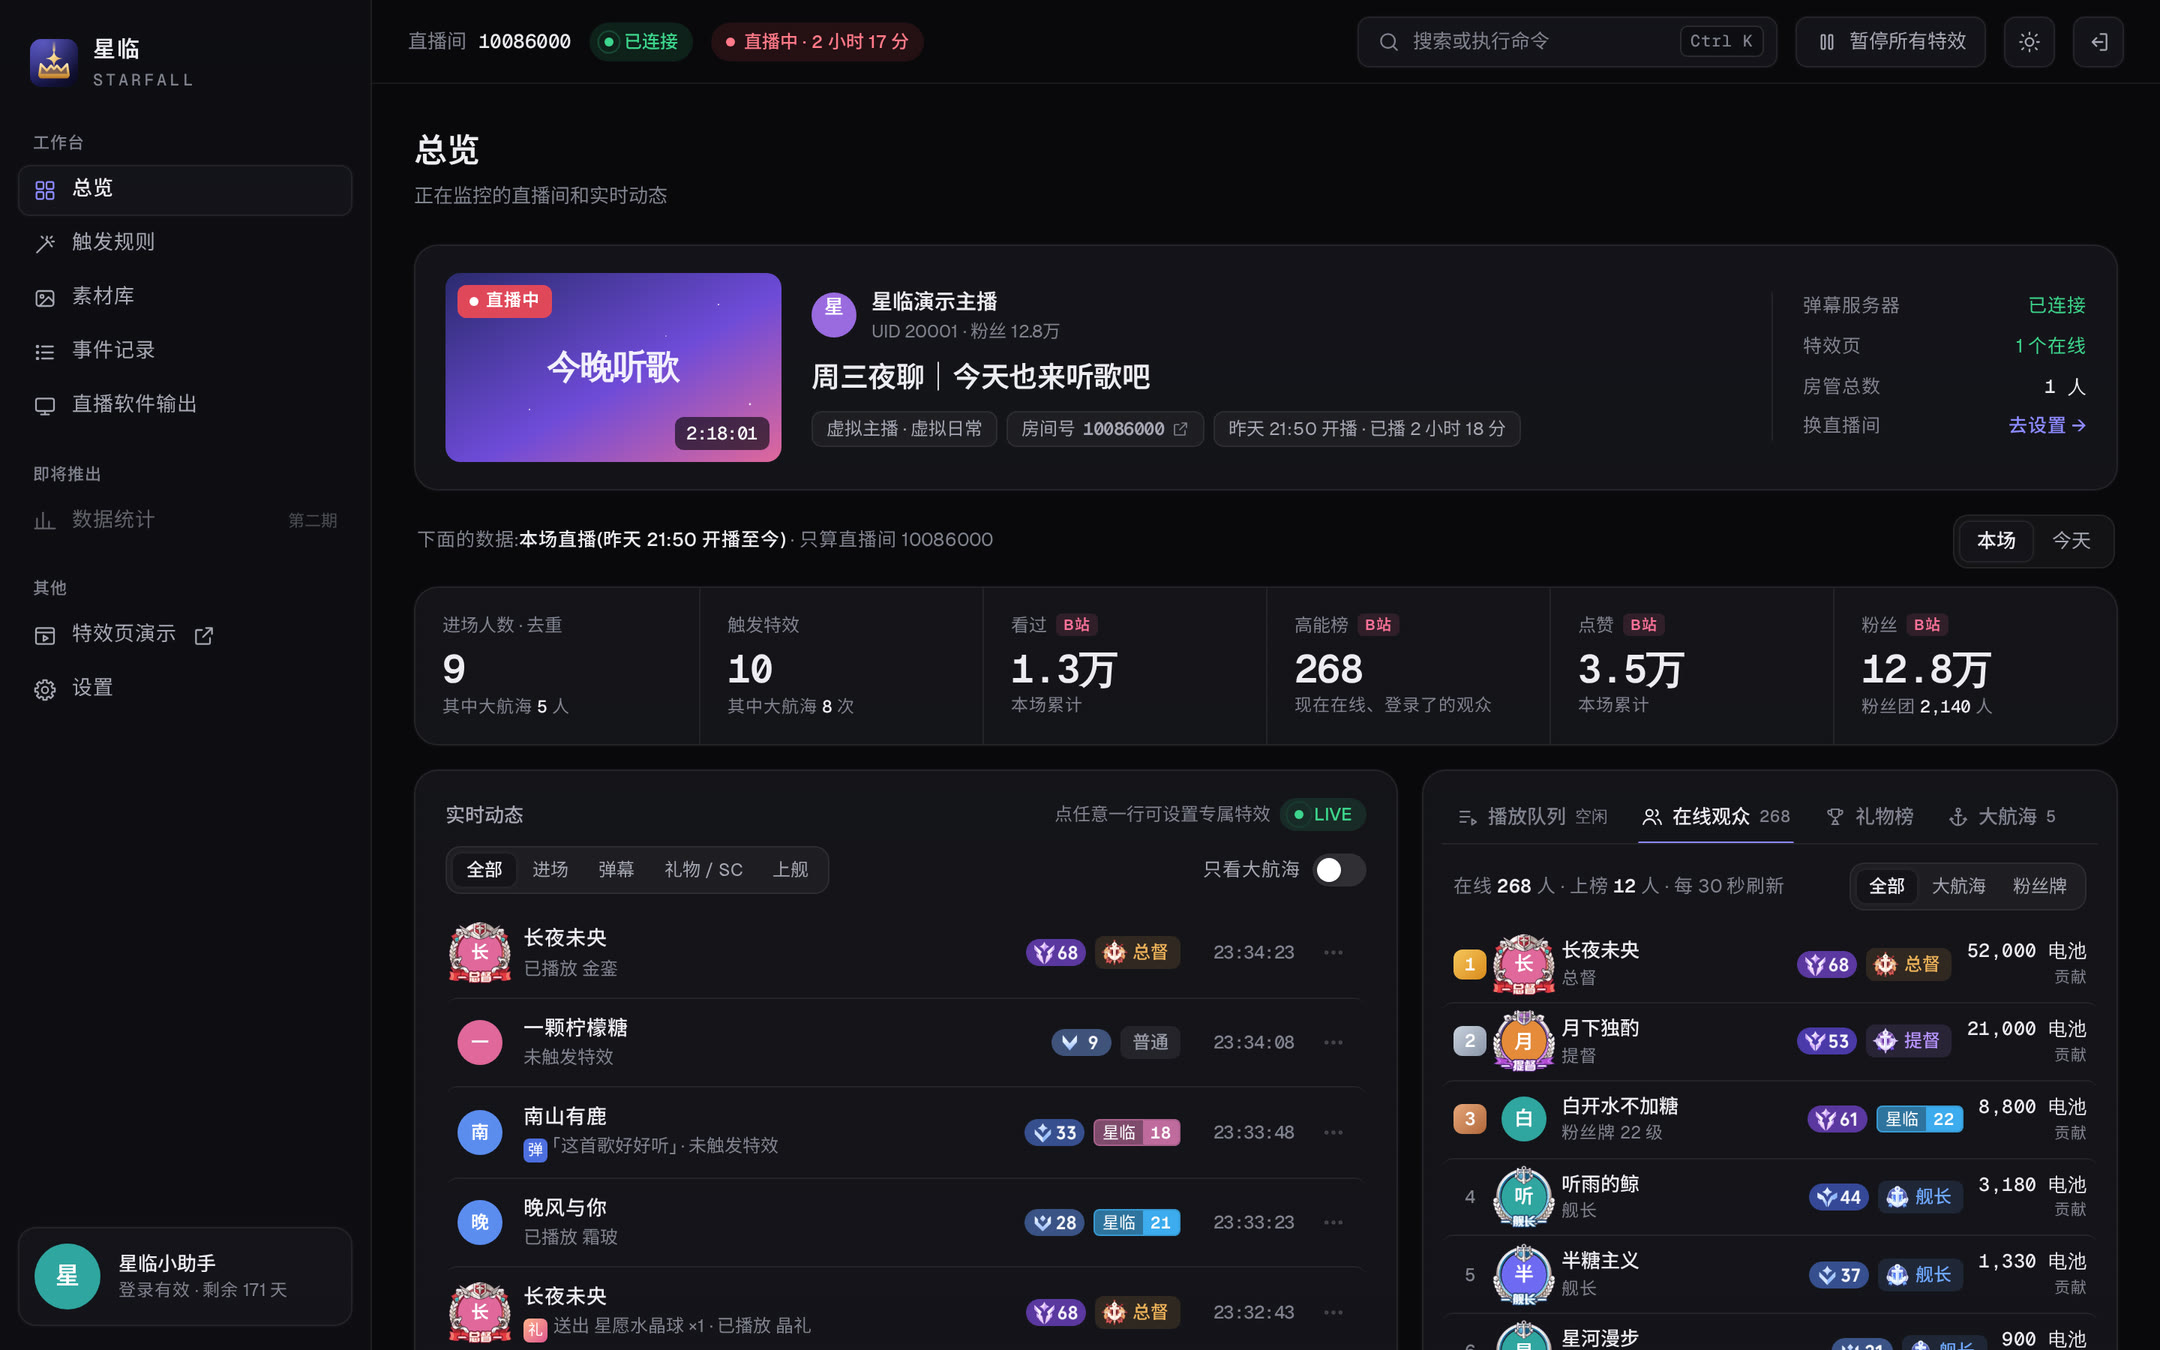
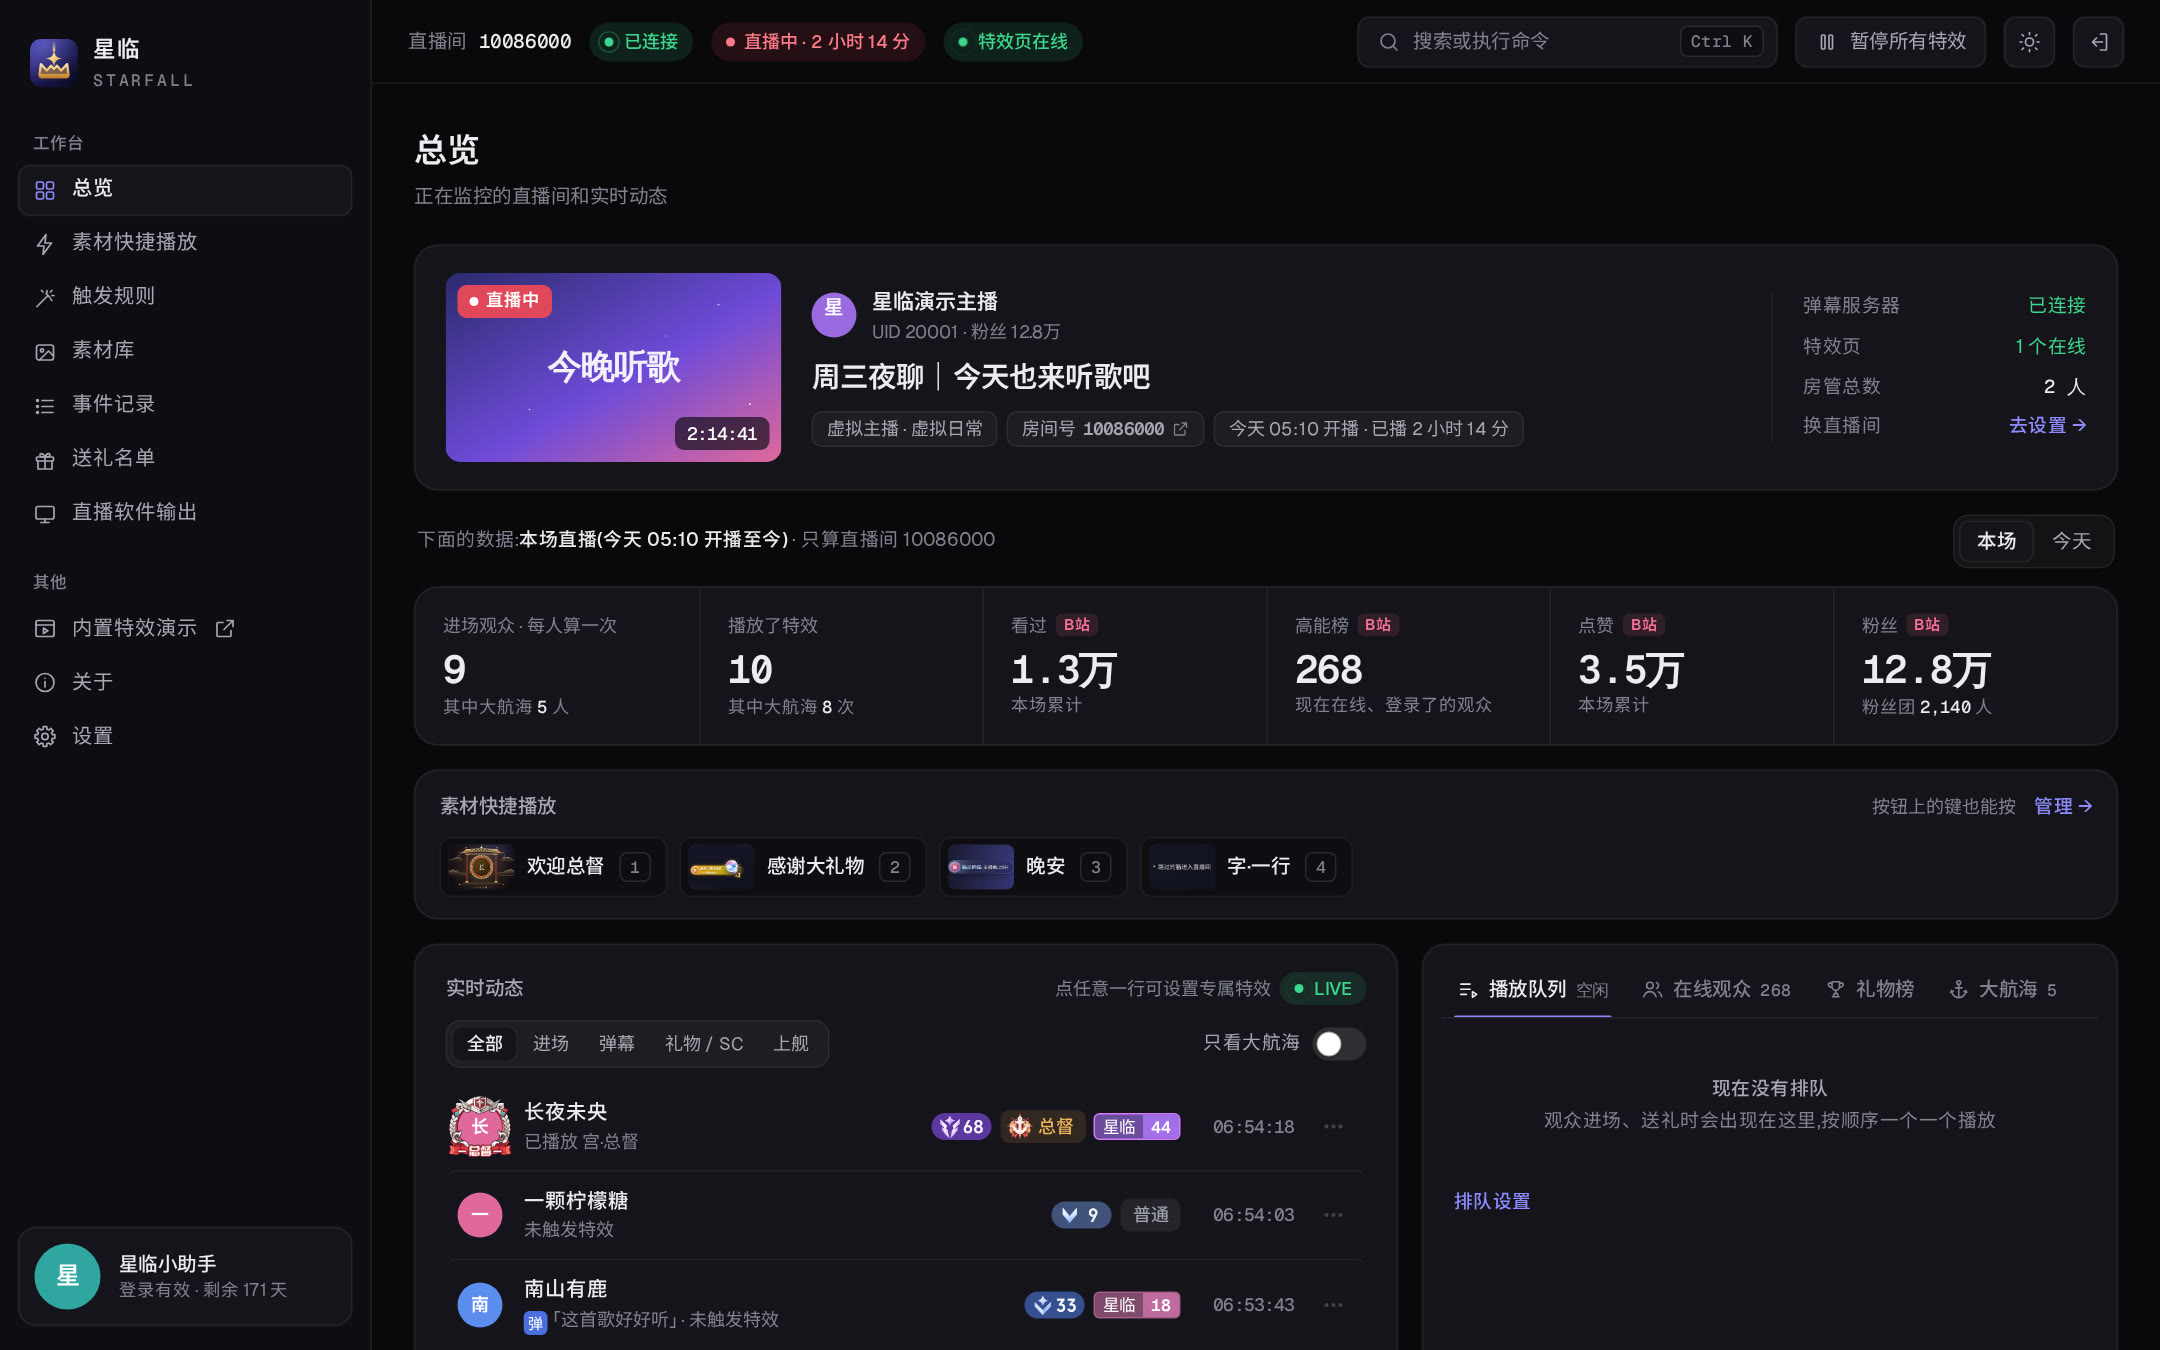
README：按 v1.6.0 更新（桌面版与服务器版两种用法、快速开始挪到前面、新截图）
- 简介补上桌面版；功能介绍加上送礼名单、素材快捷播放
- 快速开始：桌面版下载安装、服务器版一条命令安装，放在界面预览后面
- 系统架构、技术栈、项目结构补上桌面版和 starfall 管理命令；文档表加桌面版说明
- 路线图的素材名换成新名字；测试数量
- 截图用演示服务重新截（新的触发规则表格、素材快捷播放、特效页在线）；演示数据打开 10 元以上礼物规则、加几个快捷播放按钮

diff --git a/apps/server/src/cli/demo.ts b/apps/server/src/cli/demo.ts
@@ -94,9 +94,19 @@ for (const p of P) db.insert(viewers).values({ uid: p.uid, name: p.name, face: '
 
 const effects = ctx.effects.list();
 const eff = (name: string) => effects.find((e) => e.name === name)!.id;
+// 新安装时礼物规则默认关着；演示里打开 10 元以上两段
+db.$client.prepare('update rule_gift_bands set enabled = 1 where from_gold >= 10000').run();
 db.insert(ruleExclusive).values([{ uid: 101, effectId: eff('宫·总督'), cooldownMin: 30, until: null, enabled: true }, { uid: 103, effectId: eff('晶·大礼物'), cooldownMin: 60, until: null, enabled: true }]).run();
 ctx.danmuRules.create({ keywords: ['晚安', '好梦'], mode: 'contains', who: { all: false, anchor: true, mod: true, guards: [1, 2, 3], fanMin: 20, honorMin: null, uids: [] }, effectId: eff('晶·弹幕'), globalCdSec: 10, userCdMin: 10, enabled: true });
 ctx.danmuRules.create({ keywords: ['打卡'], mode: 'exact', who: { all: false, anchor: false, mod: false, guards: [], fanMin: null, honorMin: 30, uids: [] }, effectId: eff('晶·弹幕'), globalCdSec: 30, userCdMin: 60, enabled: true });
+
+// 素材快捷播放：几个常用按钮
+ctx.quickPlay.save([
+  { effectId: eff('宫·总督'), label: '欢迎总督', hotkey: '1', globalHotkey: null },
+  { effectId: eff('晶·大礼物'), label: '感谢大礼物', hotkey: '2', globalHotkey: null },
+  { effectId: eff('晶·弹幕'), label: '晚安', hotkey: '3', globalHotkey: null },
+  { effectId: eff('字·一行'), label: '', hotkey: '4', globalHotkey: null },
+]);
 
 type Ev = Exclude<StdEvent, { kind: 'live' }>;
 const log = (ev: Ev, status: 'played' | 'no_rule' | 'cooldown', rule: string | null = null, effect: string | null = null) =>

diff --git a/README.md b/README.md
@@ -14,7 +14,7 @@
 [![TypeScript](https://img.shields.io/badge/TypeScript-6.0-3178C6?style=flat-square&logo=typescript&logoColor=white)](https://www.typescriptlang.org/)
 [![Tests](https://img.shields.io/badge/tests-passing-0E8C7A?style=flat-square)](#质量保障)
 
-[界面预览](#界面预览) · [系统架构](#系统架构) · [快速开始](#快速开始) · [部署指南](docs/deployment.md) · [使用手册](docs/user-guide.md) · [更新记录](CHANGELOG.md)
+[界面预览](#界面预览) · [快速开始](#快速开始) · [系统架构](#系统架构) · [部署指南](docs/deployment.md) · [使用手册](docs/user-guide.md) · [更新记录](CHANGELOG.md)
 
 </div>
 
@@ -22,17 +22,22 @@
 
 ## 简介
 
-星临是一套自托管的直播特效系统。服务端连接 B 站直播间，实时识别观众身份与互动事件，按主播设定的规则调度特效；特效页以浏览器源的形式嵌入 B 站直播姬或 OBS，在直播画面上呈现。主播通过网页后台完成全部配置，电脑与手机均可操作。
+星临是一套自托管的直播特效系统。星临服务连接 B 站直播间，实时识别观众身份与互动事件，按主播设定的规则调度特效；特效页以浏览器源的形式嵌入 B 站直播姬或 OBS，在直播画面上呈现。主播通过管理后台完成全部配置。
+
+有两种用法，功能相同、版本号相同：
+
+- **桌面版**（Windows）：装在直播用的电脑上，打开就能用，不需要服务器；托盘运行，可以开机自动启动、自动更新，支持全局快捷键。
+- **服务器版**（Linux）：部署在自己的服务器上，电脑关机也不影响；电脑和手机都能打开管理后台。
 
 <table>
   <tr>
     <td width="33%" valign="top"><b>身份识别</b><br><sub>区分主播、总督、提督、舰长、房管、粉丝牌等级、荣耀等级与指定观众，各有专属特效；头像套上 B 站的大航海头像框</sub></td>
     <td width="33%" valign="top"><b>四类触发</b><br><sub>进场、弹幕关键词（可按身份多选谁发的才算）、礼物（指定礼物 / 价值分段）、开通与续费大航海</sub></td>
-    <td width="33%" valign="top"><b>统一调度</b><br><sub>按优先级排队播放，高价值事件插队，冷却、合并、去重，一键紧急暂停</sub></td>
+    <td width="33%" valign="top"><b>统一调度</b><br><sub>按优先级排队播放，高价值事件插队，冷却、合并、去重，一键紧急暂停；常用素材做成快捷按钮，点一下或按快捷键随时播放</sub></td>
   </tr>
   <tr>
     <td width="33%" valign="top"><b>特效素材</b><br><sub>内置大航海东方宫廷特效和玻璃质感特效，支持上传透明 WebM、MP4、图片、SVGA、Lottie，可搭配音效；SVGA 里的头像、昵称、头像框等图层自动换成进场的观众；位置、大小、边缘羽化随意调</sub></td>
-    <td width="33%" valign="top"><b>直播软件</b><br><sub>兼容 B 站直播姬与 OBS，竖屏优先并自动避开安全区，支持多路输出；另有弹幕列表，把所有人的弹幕排成一列显示在画面边上；升级后自动更新</sub></td>
+    <td width="33%" valign="top"><b>直播软件</b><br><sub>兼容 B 站直播姬与 OBS，竖屏优先并自动避开安全区，支持多路输出；另有弹幕列表和送礼名单，把弹幕、本场收到的礼物排成一列显示在画面边上；升级后自动更新</sub></td>
     <td width="33%" valign="top"><b>管理后台</b><br><sub>实时动态、播放队列、在线观众、礼物榜（含上舰与醒目留言）、大航海到场、事件记录、模拟验证、备份与导入导出</sub></td>
   </tr>
 </table>
@@ -43,9 +48,38 @@
 <sub><b>总览</b>：直播间状态、本场数据、实时动态；右侧可以切换播放队列、在线观众、礼物榜、大航海。亮色 / 暗色跟随系统，可随时切换</sub>
 
 <img src="docs/images/rules.jpg" alt="触发规则">
-<sub><b>触发规则</b>：每条规则一句话，按身份依次匹配</sub>
+<sub><b>触发规则</b>：按身份分组的表格，观众进场时从上往下找第一条符合的；可以「模拟一下」，看某个事件会命中哪条规则</sub>
 
 <sub>截图用的是演示数据，直播间、主播和观众都是编的。</sub>
+
+## 快速开始
+
+### 桌面版（Windows 10 / 11，64 位）
+
+1. 在 [Releases](https://github.com/chrismaxluo/starfall/releases/latest) 下载 `Starfall-<版本>-win-x64-setup.exe` 并安装。安装包目前没有数字签名，Windows 提示「已保护你的电脑」时点「更多信息」→「仍要运行」。
+2. 打开星临，按新手引导完成设置。
+
+以后有新版本时会提示更新，在后台下载，不影响直播。详见 [桌面版说明](docs/desktop.md)。
+
+### 服务器版（Debian / Ubuntu）
+
+用 root 运行：
+
+```bash
+curl -fsSL https://raw.githubusercontent.com/chrismaxluo/starfall/main/deploy/starfall.sh | bash -s install
+```
+
+安装完成后会显示管理后台地址和初始密码。以后用 `starfall update` 更新、`starfall rollback` 退回。国内服务器连不上 GitHub、域名与 HTTPS、备份恢复等，见 **[部署指南](docs/deployment.md)**。
+
+### 首次设置
+
+按新手引导完成：
+
+1. 扫码登录 B 站账号（仅用于读取直播间消息，建议使用小号）
+2. 填写直播间房间号
+3. 将特效页地址添加为直播软件的浏览器源
+
+规则配置与直播中的操作，见 **[使用手册](docs/user-guide.md)**。
 
 ## 系统架构
 
@@ -86,6 +120,8 @@ flowchart TB
 | **④ 特效页** | 运行在直播软件的浏览器源中，接收播放指令并渲染 CSS / SVG 动画、视频、SVGA、Lottie 与音效 |
 | **管理后台** | 配置规则与素材，查看实时动态、播放队列与直播数据，模拟事件验证规则 |
 
+桌面版把星临服务和管理后台一起装在主播电脑上运行（Electron 外壳 + 同一套服务端代码），特效页地址为本机地址；服务器版的星临服务运行在服务器上，由 systemd 管理。
+
 ### 事件处理流程
 
 以一位舰长进入直播间为例：
@@ -121,7 +157,8 @@ sequenceDiagram
 | 管理后台 | Vue 3.5 · Vite 8 | 构建为静态文件，由服务端直接提供，电脑与手机共用一套界面 |
 | 特效页 | CSS / SVG 动画 · lottie-web · svgaplayerweb | B 站直播姬与 OBS 的浏览器源均可流畅渲染，兼容常见特效素材格式 |
 | 质量保障 | Vitest · ESLint · vue-tsc | 单元、集成与端到端测试，类型与代码检查一条命令完成 |
-| 部署 | systemd · 可选 HTTPS 反向代理 | 开机自启、崩溃自动重启，内存占用受限 |
+| 桌面版 | Electron · electron-builder · electron-updater | 在主播电脑上直接运行同一套服务；打包为 Windows 安装包，从 GitHub 发布页自动更新（国内可自动换加速站） |
+| 部署 | systemd · starfall 管理命令 · 可选 Caddy HTTPS | 一条命令安装、更新、退回；开机自启、崩溃自动重启，内存占用受限 |
 
 ## 项目结构
 
@@ -130,12 +167,13 @@ starfall/
 ├── apps/
 │   ├── server/        星临服务：REST 接口、实时推送、直播连接、播放调度
 │   ├── admin/         管理后台（Vue 3）
-│   └── overlay/       特效页（浏览器源）
+│   ├── overlay/       特效页（浏览器源）
+│   └── desktop/       桌面版（Electron 外壳、打包设置）
 ├── packages/
 │   ├── shared/        公共定义：类型、常量、消息格式
 │   ├── core/          纯逻辑：规则匹配、冷却、合并、播放队列
 │   └── bili/          B 站协议：登录、直播间接口、弹幕连接、消息解析
-├── deploy/            systemd 服务文件
+├── deploy/            服务器版：systemd 服务文件、starfall 管理命令
 ├── design/            品牌资源与设计预览
 ├── docs/              文档
 └── fixtures/          测试样本（已脱敏）
@@ -181,29 +219,9 @@ pnpm build        # 构建管理后台与特效页
 
 ### 质量保障
 
-- **测试**：近 400 个单元与集成测试，覆盖消息解析、规则匹配、冷却与合并、播放队列、接口，以及基于模拟 B 站服务器的端到端流程。
+- **测试**：400 多个单元与集成测试，覆盖消息解析、规则匹配、冷却与合并、播放队列、接口，以及基于模拟 B 站服务器的端到端流程。
 - **检查**：TypeScript 严格模式、ESLint、Vue 模板类型检查，`pnpm check` 一次完成。
 - **分支**：`main` 仅承载里程碑版本并打标签，日常开发在 `dev`；详见[开发约定](docs/development.md)。
-
-## 快速开始
-
-**环境要求**：一台 Linux 服务器（已在 Debian 12 验证）、Node.js 24+、可访问 B 站。
-
-```bash
-git clone https://github.com/chrismaxluo/starfall.git /opt/starfall
-cd /opt/starfall
-corepack enable && pnpm install
-pnpm build
-pnpm --filter @starfall/server start
-```
-
-启动后访问 `http://<服务器地址>:17520/`，使用日志中显示的初始密码登录（同时保存在 `data/initial-password.txt`），按新手引导完成：
-
-1. 扫码登录 B 站账号（仅用于读取直播间消息，建议使用小号）
-2. 填写直播间房间号
-3. 将特效页地址添加为直播软件的浏览器源
-
-端口、数据目录、时区可通过环境变量修改，其余设置都在管理后台「设置」中调整。作为系统服务运行、更新、HTTPS 与备份恢复，请参阅 **[部署指南](docs/deployment.md)**；规则配置与直播中的操作，请参阅 **[使用手册](docs/user-guide.md)**。
 
 ## 文档
 
@@ -211,6 +229,7 @@ pnpm --filter @starfall/server start
 |---|---|
 | [部署指南](docs/deployment.md) | 安装、系统服务、更新、HTTPS、备份与恢复、常见问题 |
 | [使用手册](docs/user-guide.md) | 首次设置、接入直播软件、配置规则、直播中的操作 |
+| [桌面版说明](docs/desktop.md) | 桌面版和服务器版的区别、文件位置、更新与卸载、打包与发布 |
 | [功能验收清单](docs/acceptance.md) | 每次发版前，服务器版和桌面版都按它检查 |
 | [桌面版测试清单](docs/desktop-testing.md) | 桌面版发版前查 Windows 环境：安全提示、中文路径、杀毒软件、睡眠唤醒、资源占用 |
 | [需求文档](docs/requirements.md) | 功能需求与验收场景 |
@@ -222,14 +241,14 @@ pnpm --filter @starfall/server start
 ## 路线图
 
 - [x] **v1.0.0**：进场、弹幕、礼物、上舰特效，完整的管理后台，服务器部署
-- [x] 特效升级：大航海用东方宫廷风格（门楼 / 亭阁 / 金銮）；礼物、房管、弹幕回应用玻璃质感（晶礼 / 晶耀 / 晶巡 / 晶语）
+- [x] 特效升级：大航海用东方宫廷风格（宫·舰长 / 宫·提督 / 宫·总督）；礼物、房管、弹幕回应用玻璃质感（晶·礼物 / 晶·大礼物 / 晶·房管进场 / 晶·弹幕）
 - [x] **v1.1.0**：素材位置、大小、上下羽化、渐入渐出可调；素材库卡片操作；特效页自动更新、后台新版本提示
 - [x] **v1.2.0**：大航海头像框、荣耀等级；弹幕规则按身份多选；SVGA 动态图层；总览切换面板（在线观众、礼物榜、大航海）；记录醒目留言
 - [x] **v1.3.0**：弹幕列表（所有人的弹幕排成一列显示在直播画面上）；直播软件输出页改版
 - [x] **v1.4.0**：管理后台体验全面改进（运行状态提醒、真实画面预览、撤销、事件原因与处理入口、备份恢复）；弹幕列表条数设置与自动消失
 - [x] **v1.5.0**：礼物特效改版（播 B站官方全屏动画；动图礼物图；按价值和大航海身份配色）；送礼名单（本场收到的自动显示，或手动挑记录一直挂着；循环滚动）；荣耀等级进场；素材快捷播放；服务器版一条命令安装、更新、退回；触发规则、事件记录等页面改版
-- [x] **v1.6.0**：国内下载更新更容易（GitHub 连不上或太慢时自动换加速站）；送礼名单最低金额；内置素材统一命名；新安装的默认设置调整；桌面版卸载时可以选择是否删除数据
 - [x] Windows 桌面版（v1.5.0 起为正式版）：在主播电脑上直接运行，界面与服务器版一致（[说明](docs/desktop.md)）
+- [x] **v1.6.0**：国内下载更新更容易（GitHub 连不上或太慢时自动换加速站）；送礼名单最低金额；内置素材统一命名；新安装的默认设置调整；桌面版卸载时可以选择是否删除数据
 - [ ] 第二期：醒目留言、关注、点赞触发；直播数据统计；观众档案
 
 ## 声明
